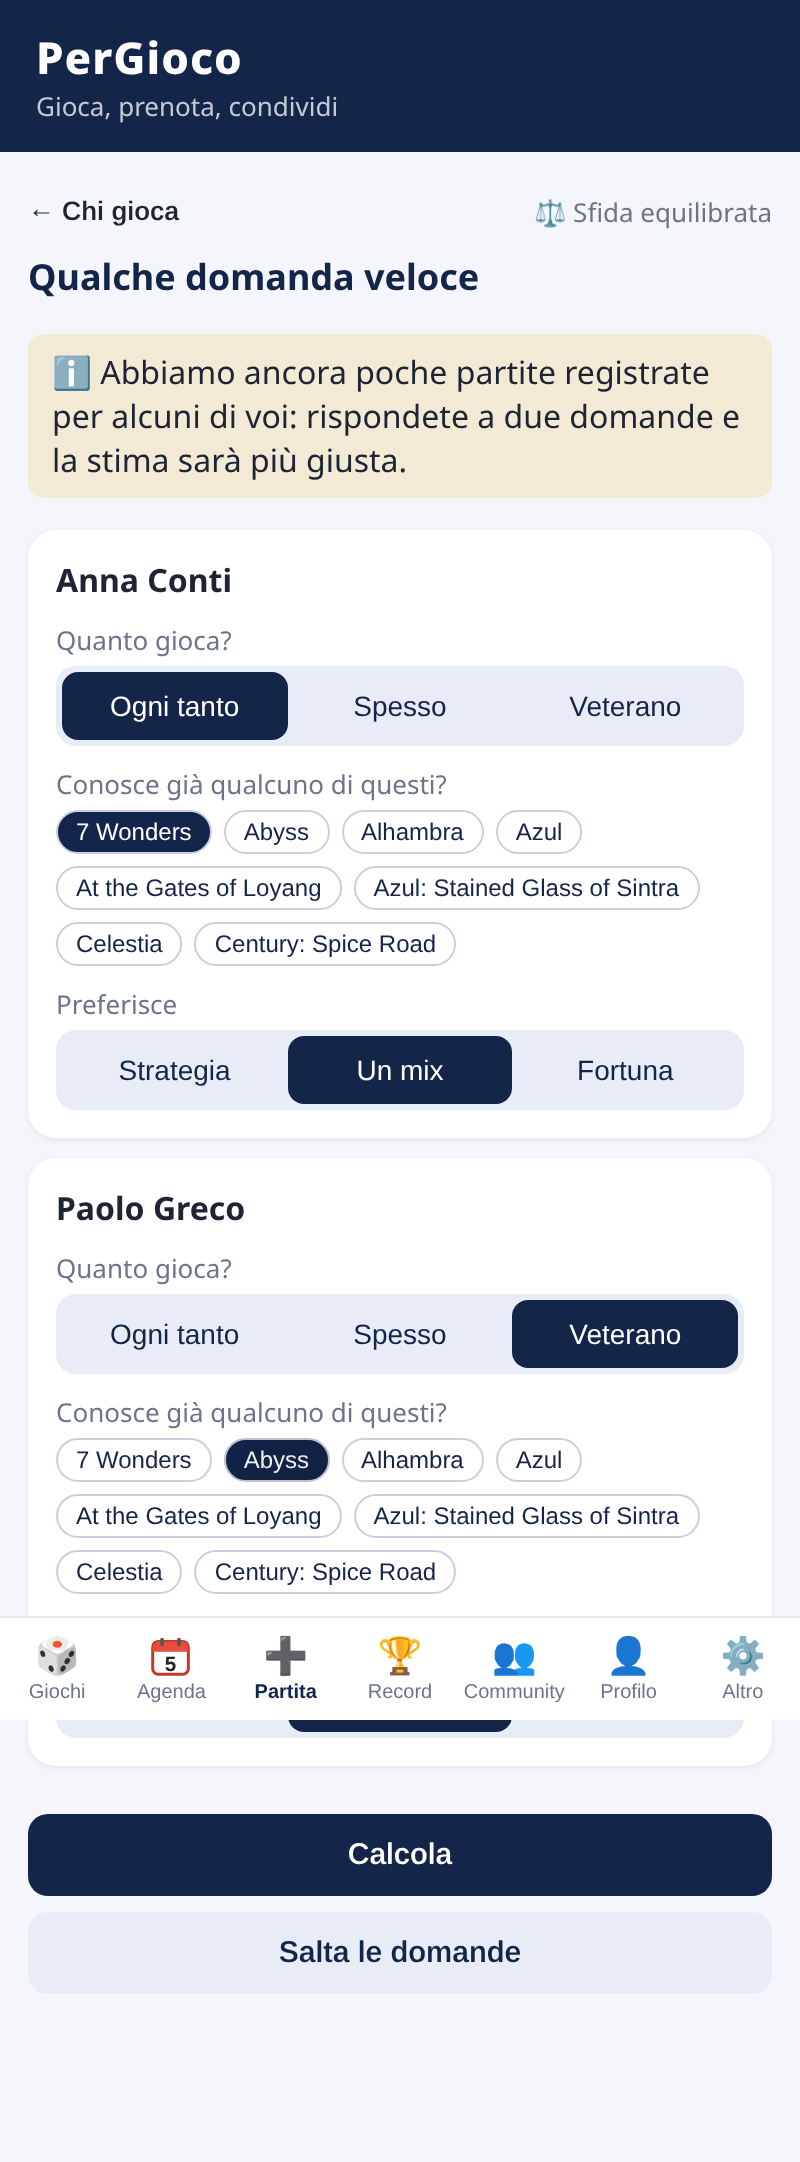
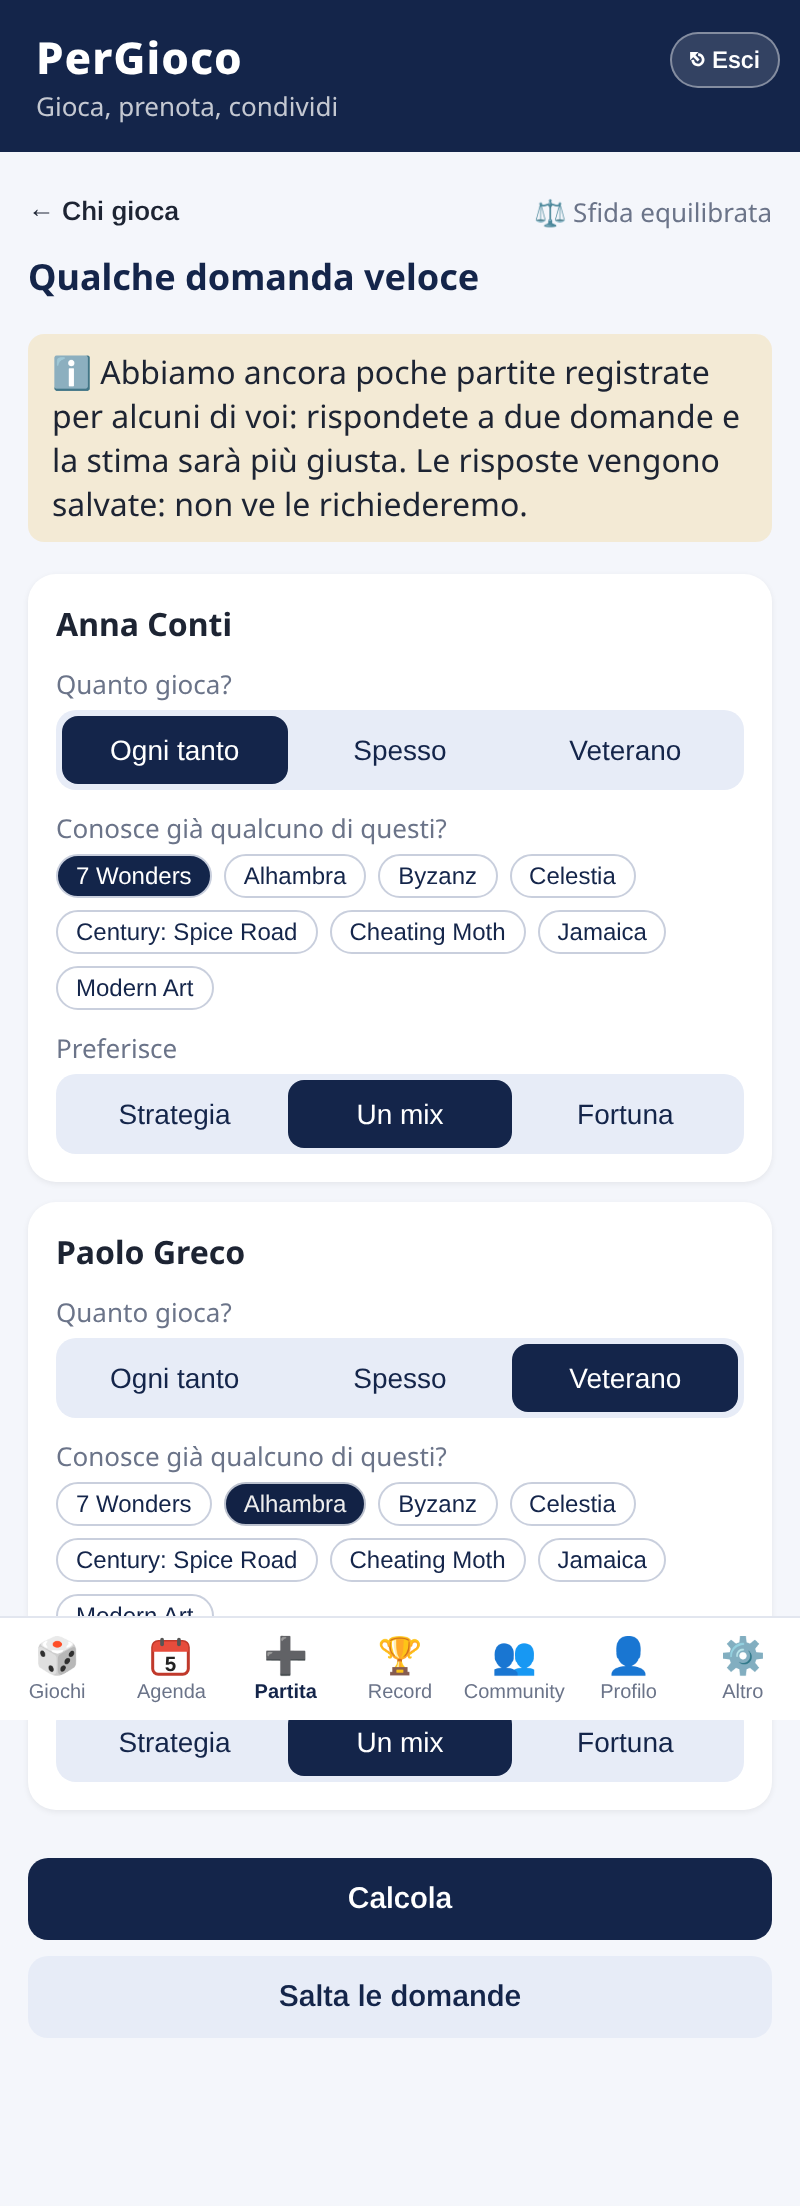
v29: profilo di gioco salvato per socio (member_profile_gioco) + link aggiorna preferenze

diff --git a/equilibrio.js b/equilibrio.js
@@ -1,6 +1,6 @@
 // v29 — "Sfida equilibrata": propone i giochi più equilibrati per un gruppo di soci.
 // Dati: partite registrate (RLS esistente: lettura per utenti autenticati) + game_meta (fortuna; lettura già consentita agli autenticati).
-// Nessun dato nuovo salvato: le risposte alle domande restano solo in questa sessione (memoria).
+// Le risposte alle domande "pochi dati" sono salvate per socio in member_profile_gioco (migrate-v29.sql), così non si richiedono due volte.
 const EQ={MIN_N:5,FULL_N:10,TIME:{'30':30,'60':60,'120':120,'0':0},PREF:['ind','new','known'],FREQ:['raro','spesso','vet'],GUSTO:['strat','mix','luck'],
  hash(s){let h=2166136261;for(const c of String(s)){h^=c.codePointAt(0);h=Math.imul(h,16777619)}return h>>>0},
  // esperienza/forza di ogni partecipante nel gioco g
@@ -24,7 +24,7 @@ const EQ={MIN_N:5,FULL_N:10,TIME:{'30':30,'60':60,'120':120,'0':0},PREF:['ind','
  needQuiz(S,ids){return ids.filter(id=>S[id].n<EQ.FULL_N)},
  score(g,ctx){const{S,comp,ids,Q,meta,pref}=ctx,M=meta[g.id]||{},luck=M.luck!=null?M.luck:1;
   const per=ids.map(id=>{const s=S[id],wd=EQ.wData(s),q=Q[id]||null,a=s.g[g.id];
-   const eD=a?1-Math.exp(-a.n/3):0,fq=q?EQ.FREQ.indexOf(q.freq):-1,kn=q&&q.known.includes(g.id);
+   const eD=a?1-Math.exp(-a.n/3):0,fq=q?EQ.FREQ.indexOf(q.freq):-1,kn=!!(a&&a.n)||!!(q&&q.known.includes(g.id));
    const eQ=q?(kn?[0.45,0.65,0.85][fq]:[0,0.08,0.2][fq]):eD;
    const E=q?wd*eD+(1-wd)*eQ:eD;
    const sk=a&&a.n>=2?EQ.rel(a):EQ.rel(s.cat[typeof gMain==='function'?gMain(g):'']||s);
@@ -50,10 +50,23 @@ const EQ={MIN_N:5,FULL_N:10,TIME:{'30':30,'60':60,'120':120,'0':0},PREF:['ind','
   if(!out.length)out.push(pk(['Tra i giochi possibili è quello con meno squilibri.','Buon compromesso tra esperienza e talento del gruppo.']));
   return out.slice(0,2).join(' ')}};
 
+// profilo di gioco per socio: validato in lettura e in scrittura (stessi vincoli dei CHECK in migrate-v29.sql)
+const EQP={key:'pergioco-eqprof-v29',ID:/^[A-Za-z0-9_-]{1,40}$/,
+ clean(r){if(!r||typeof r!=='object')return null;const f=r.freq??r.frequenza,g=r.gusto??r.preferenza,k=r.known??r.giochi_conosciuti;
+  if(!EQ.FREQ.includes(f)||!EQ.GUSTO.includes(g))return null;const known=[...new Set((Array.isArray(k)?k:[]).filter(x=>typeof x==='string'&&EQP.ID.test(x)))].slice(0,50);return{freq:f,gusto:g,known}},
+ _cache(){try{const o=JSON.parse(localStorage.getItem(this.key));return o&&typeof o==='object'?o:{}}catch(e){return{}}},
+ _put(m){try{localStorage.setItem(this.key,JSON.stringify(m))}catch(e){}},
+ client(){return DB.remote&&DB.mode==='online'?DB.remote.client:null},
+ async load(){const raw=this._cache(),out={};const c=this.client();
+  if(c){try{const{data,error}=await c.from('member_profile_gioco').select('member_id,frequenza,preferenza,giochi_conosciuti');if(!error&&Array.isArray(data)){const m={};data.forEach(r=>{const v=EQP.clean(r);if(v&&typeof r.member_id==='string'&&r.member_id.length<=60)m[r.member_id]=v});this._put(m);return m}}catch(e){}}
+  for(const k in raw){const v=EQP.clean(raw[k]);if(v)out[k]=v}return out},
+ async save(id,d){const v=EQP.clean(d);if(!v||typeof id!=='string'||!id||id.length>60)throw new Error('dati non validi');const c=this.client();
+  if(c){const{error}=await c.from('member_profile_gioco').upsert({member_id:id,frequenza:v.freq,preferenza:v.gusto,giochi_conosciuti:v.known},{onConflict:'member_id'});if(error)throw error}
+  const m=this._cache();m[id]=v;this._put(m);return v}};
 async function eqOpen(){const all=await DB.members(),ms=all.filter(m=>m.active),gsAll=await DB.games(),ps=await DB.plays(),meta=typeof Meta!=='undefined'?await Meta.load():{};
  const games=gsAll.filter(g=>!g.isExp&&!(typeof isCoop==='function'&&isCoop(g)));
- const st={ids:[],guests:0,time:'0',pref:'ind',Q:{},off:0};let _u=null;try{_u=DB.remote?(await DB.remote.user())?.id:null}catch(e){}
- const me=all.find(m=>_u&&m.userId===_u);if(me&&me.active)st.ids.push(me.id);
+ const st={ids:[],guests:0,time:'0',pref:'ind',Q:await EQP.load(),off:0};let _u=null;try{_u=DB.remote?(await DB.remote.user())?.id:null}catch(e){}
+ const me=all.find(m=>_u&&m.userId===_u)||null;if(me&&me.active)st.ids.push(me.id);
  const nm=id=>{const m=all.find(x=>x.id===id);if(!m)return'?';const t=[m.nome,m.cognome].filter(Boolean).join(' ')||m.name||'Socio';return String(t).slice(0,60)};
  const top=(t,back)=>`<div class="cwz-top"><button class="cwz-back" id="eqb">← ${esc(back)}</button><span class="muted">⚖ Sfida equilibrata</span></div><h2 id="eqh" tabindex="-1">${esc(t)}</h2>`;
  const N=()=>st.ids.length+st.guests;
@@ -67,29 +80,38 @@ async function eqOpen(){const all=await DB.members(),ms=all.filter(m=>m.active),
   <div class="card"><label>Giocatori al tavolo</label><p><b>${N()}</b> <span class="muted">(calcolato dai partecipanti)</span></p>
    <label>Tempo disponibile</label><div class="seg" id="eqt">${[['30','30 min'],['60','1 ora'],['120','2 ore'],['0','Senza limite']].map(([v,l])=>`<button data-v="${v}" class="${st.time===v?'on':''}">${l}</button>`).join('')}</div>
    <label>Preferenza</label><div class="seg" id="eqf">${[['ind','Indifferente'],['new','Nuovo per tutti'],['known','Che conoscono tutti']].map(([v,l])=>`<button data-v="${v}" class="${st.pref===v?'on':''}">${l}</button>`).join('')}</div></div>
+  ${me&&me.active?`<p class="equpd"><a href="#" id="equ">${st.Q[me.id]?'aggiorna le mie preferenze':'indica le mie preferenze'}</a></p>`:''}
   <button class="p" id="eqgo" ${st.ids.length<2?'disabled':''}>Trova la sfida più equilibrata</button>${st.ids.length<2?'<p class="muted">Servono almeno 2 soci.</p>':''}</div>`;
   $('#eqh').focus();$('#eqb').onclick=()=>go('nuova');
   $('#eqp').onclick=async()=>{const r=await pickMembers(ms,st.ids,'Chi partecipa alla sfida?');if(!r)return;st.ids=r.filter(id=>ms.some(m=>m.id===id)).slice(0,20);s1()};
   $('#eqgm').onclick=()=>{st.guests=Math.max(0,st.guests-1);s1()};$('#eqgp').onclick=()=>{st.guests=Math.min(10,st.guests+1);s1()};
+  if($('#equ'))$('#equ').onclick=e=>{e.preventDefault();const{S}=EQ.stats(ps,[me.id],games);s2(S,[me.id],true)};
   V.querySelectorAll('#eqt [data-v]').forEach(b=>b.onclick=()=>{if(b.dataset.v in EQ.TIME){st.time=b.dataset.v;s1()}});
   V.querySelectorAll('#eqf [data-v]').forEach(b=>b.onclick=()=>{if(EQ.PREF.includes(b.dataset.v)){st.pref=b.dataset.v;s1()}});
   $('#eqgo').onclick=()=>{if(st.ids.length<2)return;st.off=0;const{S}=EQ.stats(ps,st.ids,games);const need=EQ.needQuiz(S,st.ids).filter(id=>!st.Q[id]);need.length?s2(S,need):res()}};
  // 2) pochi dati: domande rapide per chi ha poche partite
- const s2=(S,need)=>{const C=cand().sort((a,b)=>EQ.hash(a.id)%7-EQ.hash(b.id)%7).sort((a,b)=>ps.filter(p=>p.gameId===b.id).length-ps.filter(p=>p.gameId===a.id).length).slice(0,8);
-  const draft={};need.forEach(id=>draft[id]={freq:'',known:[],gusto:'mix'});
-  V.innerHTML=`<div class="cwz eq">${top('Qualche domanda veloce','Chi gioca')}
-  <p class="cwz-note">ℹ Abbiamo ancora poche partite registrate per ${need.length===1?esc(nm(need[0])):'alcuni di voi'}: rispondete a due domande e la stima sarà più giusta. ${need.some(id=>S[id].n>=EQ.MIN_N)?'Per chi ha già qualche partita contiamo anche quelle.':''}</p>
+ const s2=(S,need,edit)=>{const C=cand().sort((a,b)=>EQ.hash(a.id)%7-EQ.hash(b.id)%7).sort((a,b)=>ps.filter(p=>p.gameId===b.id).length-ps.filter(p=>p.gameId===a.id).length).slice(0,8);
+  const draft={};need.forEach(id=>{const q=st.Q[id];draft[id]=q?{freq:q.freq,known:q.known.slice(),gusto:q.gusto}:{freq:'',known:[],gusto:'mix'}});
+  const C2=edit?[...new Map([...C,...games.filter(g=>need.some(id=>draft[id].known.includes(g.id)))].map(g=>[g.id,g])).values()].slice(0,20):C;
+  V.innerHTML=`<div class="cwz eq">${top(edit?'Le mie preferenze':'Qualche domanda veloce','Chi gioca')}
+  ${edit?'<p class="muted">Facoltativo: aggiorna come giochi. Le risposte restano salvate per le prossime sfide.</p>':`<p class="cwz-note">ℹ Abbiamo ancora poche partite registrate per ${need.length===1?esc(nm(need[0])):'alcuni di voi'}: rispondete a due domande e la stima sarà più giusta. ${need.some(id=>S[id].n>=EQ.MIN_N)?'Per chi ha già qualche partita contiamo anche quelle.':''} Le risposte vengono salvate: non ve le richiederemo.</p>`}
   ${need.map(id=>`<div class="card eqq" data-id="${esc(id)}"><b>${esc(nm(id))}</b>
-   <label>Quanto gioca?</label><div class="seg" data-k="freq">${[['raro','Ogni tanto'],['spesso','Spesso'],['vet','Veterano']].map(([v,l])=>`<button data-v="${v}">${l}</button>`).join('')}</div>
-   ${C.length?`<label>Conosce già qualcuno di questi?</label><div class="eqknown" data-k="known">${C.map(g=>`<button class="chip" data-v="${esc(g.id)}" aria-pressed="false">${esc(g.name)}</button>`).join('')}</div>`:''}
-   <label>Preferisce</label><div class="seg" data-k="gusto">${[['strat','Strategia'],['mix','Un mix'],['luck','Fortuna']].map(([v,l])=>`<button data-v="${v}" class="${v==='mix'?'on':''}">${l}</button>`).join('')}</div></div>`).join('')}
-  <button class="p" id="eqq">Calcola</button><button id="eqskip" class="s" style="margin-top:8px;width:100%">Salta le domande</button></div>`;
+   <label>Quanto gioca?</label><div class="seg" data-k="freq">${[['raro','Ogni tanto'],['spesso','Spesso'],['vet','Veterano']].map(([v,l])=>`<button data-v="${v}" class="${draft[id].freq===v?'on':''}">${l}</button>`).join('')}</div>
+   ${C2.length?`<label>Conosce già qualcuno di questi?</label><div class="eqknown" data-k="known">${C2.map(g=>`<button class="chip${draft[id].known.includes(g.id)?' on':''}" data-v="${esc(g.id)}" aria-pressed="${draft[id].known.includes(g.id)}">${esc(g.name)}</button>`).join('')}</div>`:''}
+   <label>Preferisce</label><div class="seg" data-k="gusto">${[['strat','Strategia'],['mix','Un mix'],['luck','Fortuna']].map(([v,l])=>`<button data-v="${v}" class="${draft[id].gusto===v?'on':''}">${l}</button>`).join('')}</div></div>`).join('')}
+  <button class="p" id="eqq">${edit?'Salva':'Calcola'}</button>${edit?'':'<button id="eqskip" class="s" style="margin-top:8px;width:100%">Salta le domande</button>'}</div>`;
   $('#eqh').focus();$('#eqb').onclick=s1;
   V.querySelectorAll('.eqq').forEach(c=>{const d=draft[c.dataset.id];if(!d)return;
    c.querySelectorAll('[data-k="freq"] button,[data-k="gusto"] button').forEach(b=>b.onclick=()=>{const k=b.parentNode.dataset.k,v=b.dataset.v;if(!(k==='freq'?EQ.FREQ:EQ.GUSTO).includes(v))return;d[k]=v;b.parentNode.querySelectorAll('button').forEach(x=>x.classList.toggle('on',x===b))});
-   c.querySelectorAll('[data-k="known"] button').forEach(b=>b.onclick=()=>{const v=b.dataset.v;if(!C.some(g=>g.id===v))return;const i=d.known.indexOf(v);if(i>=0)d.known.splice(i,1);else d.known.push(v);b.setAttribute('aria-pressed',d.known.includes(v));b.classList.toggle('on',d.known.includes(v))})});
-  $('#eqq').onclick=()=>{const miss=need.filter(id=>!draft[id].freq);if(miss.length)return toast('Indica quanto gioca '+nm(miss[0]));need.forEach(id=>st.Q[id]=draft[id]);res()};
-  $('#eqskip').onclick=res};
+   c.querySelectorAll('[data-k="known"] button').forEach(b=>b.onclick=()=>{const v=b.dataset.v;if(!C2.some(g=>g.id===v))return;const i=d.known.indexOf(v);if(i>=0)d.known.splice(i,1);else d.known.push(v);b.setAttribute('aria-pressed',d.known.includes(v));b.classList.toggle('on',d.known.includes(v))})});
+  $('#eqq').onclick=async()=>{const miss=need.filter(id=>!draft[id].freq);if(miss.length)return toast('Indica quanto gioca '+nm(miss[0]));const b=$('#eqq');b.disabled=true;let ko=0;
+   for(const id of need){const prev=st.Q[id],d=draft[id];
+    // i giochi conosciuti già salvati che non erano tra le scelte mostrate restano
+    const kept=prev?prev.known.filter(g=>!C2.some(x=>x.id===g)):[];const v=EQP.clean({...d,known:[...kept,...d.known]});if(!v)continue;st.Q[id]=v;
+    try{await EQP.save(id,v)}catch(e){ko++}}
+   if(ko)toast('⚠ Risposte usate per questa sfida ma non salvate: riprova più tardi');else toast(edit?'✅ Preferenze aggiornate':'✅ Risposte salvate');
+   edit?s1():res()};
+  if($('#eqskip'))$('#eqskip').onclick=res};
  // 3) risultato
  const res=()=>{const{S,comp}=EQ.stats(ps,st.ids,games),ctx={S,comp,ids:st.ids,Q:st.Q,meta,pref:st.pref};
   const L=cand().map(g=>EQ.score(g,ctx)).sort((a,b)=>b.s-a.s||a.g.name.localeCompare(b.g.name));

diff --git a/styles.css b/styles.css
@@ -220,3 +220,4 @@ body.antopen{overflow:hidden}
 .eqo{display:block;width:100%;text-align:left;background:none;border:1px dashed #c9cfdd;border-radius:10px;padding:8px 12px;margin:0 0 10px;font-size:14px;color:var(--b,#13254a);cursor:pointer}.eqo span{color:#666}.eqo:hover{background:#f3f5fa}
 .eq .eqchips{display:flex;flex-wrap:wrap;gap:6px;margin-top:8px}.eq .eqstep{align-items:center;gap:12px}.eq .eqstep button{flex:0 0 44px}.eq .eqstep b{flex:0 0 auto;font-size:18px}
 .eq .eqknown{display:flex;flex-wrap:wrap;gap:6px}.eq .eqknown .chip{cursor:pointer;border:1px solid #c9cfdd;background:#fff}.eq .eqknown .chip.on{background:#13254a;color:#fff}.eq .seg{flex-wrap:wrap}
+.eq .equpd{text-align:right;margin:6px 0 10px;font-size:13px}.eq .equpd a{color:#555}
